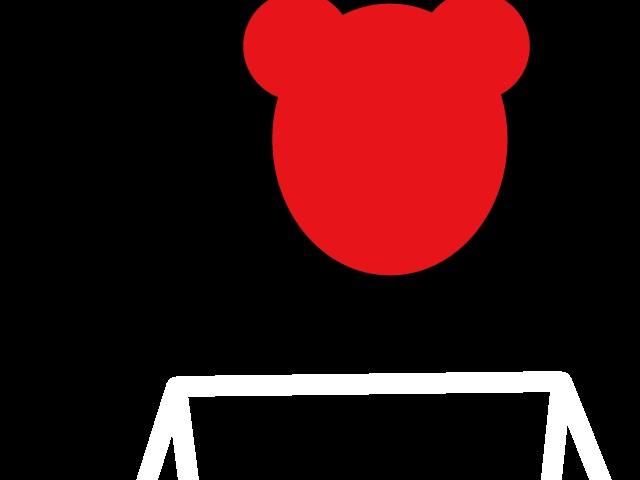
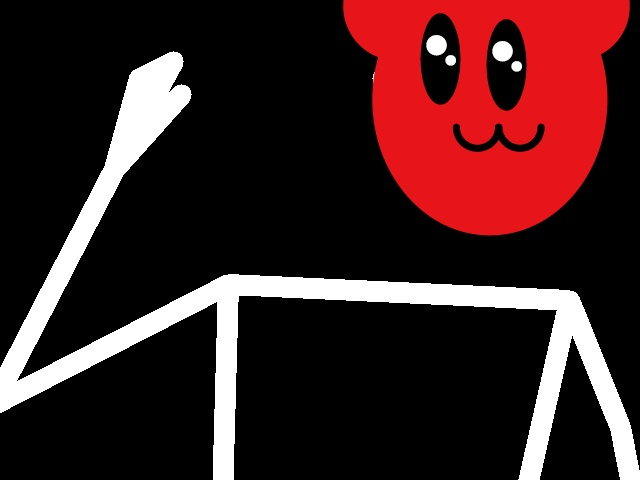
add face elements

diff --git a/tiikawapose.py b/tiikawapose.py
@@ -7,7 +7,10 @@ from PIL import Image
 mp_pose = mp.solutions.pose
 
 # 貼り付ける透過背景付き画像の読み込み
-face_image = cv2.imread('character_face.png', cv2.IMREAD_UNCHANGED)  # 透過背景付き画像を読み込む
+face_image = cv2.imread('character_face.png', cv2.IMREAD_UNCHANGED)
+left_eye_image = cv2.imread('eye_image.png', cv2.IMREAD_UNCHANGED)
+right_eye_image = cv2.imread('eye_image.png', cv2.IMREAD_UNCHANGED)
+mouth_image = cv2.imread('mouth_image.png', cv2.IMREAD_UNCHANGED)
 
 # カメラ映像の取得
 cap = cv2.VideoCapture(0)
@@ -18,20 +21,24 @@ black_img0.save('black_image_with_alpha.png')
 black_img = cv2.imread('black_image_with_alpha.png', cv2.IMREAD_UNCHANGED)
 
 # 画像を重ねる関数
-def overlay_image(bg_img, fg_img, position):
+def overlay_image(bg_img, fg_img, position, angle=0, scale=1.0):
+    
     x, y = position
     h, w = bg_img.shape[:2]
     fg_h, fg_w = fg_img.shape[:2]
+
     # 貼り付ける範囲を背景画像のサイズに収まるように調整
     x1, x2 = max(x - fg_w // 2, 0), min(x + fg_w // 2, w)
     y1, y2 = max(y - fg_h // 2, 0), min(y + fg_h // 2, h)
     fg_x1, fg_y1 = max(0, -x + fg_w // 2), max(0, -y + fg_h // 2)
     fg_x2, fg_y2 = fg_x1 + (x2 - x1), fg_y1 + (y2 - y1)
+
     if x1 < x2 and y1 < y2:
         for c in range(0, 3):  # BGRチャンネル
             alpha = fg_img[fg_y1:fg_y2, fg_x1:fg_x2, 3] / 255.0
             bg_img[y1:y2, x1:x2, c] = (alpha * fg_img[fg_y1:fg_y2, fg_x1:fg_x2, c] +
                                         (1 - alpha) * bg_img[y1:y2, x1:x2, c])
+
     return bg_img
 
 # 背景を透過させる関数
@@ -85,12 +92,34 @@ with mp_pose.Pose(min_detection_confidence=0.5, min_tracking_confidence=0.5) as 
         if results.pose_landmarks:
             draw_thick_skeleton(image, results.pose_landmarks.landmark, mp_pose.POSE_CONNECTIONS, thickness=20, color=(0, 0, 255))
 
-            # 顔の位置を取得し、画像を透過させて貼り付け
-            nose_landmark = results.pose_landmarks.landmark[mp_pose.PoseLandmark.NOSE]
-            nose_x, nose_y = int(nose_landmark.x * frame.shape[1]), int(nose_landmark.y * frame.shape[0])
+            # 目と口のランドマークを取得し、回転とスケーリングを考慮
+            nose = results.pose_landmarks.landmark[mp_pose.PoseLandmark.NOSE]
+            left_eye = results.pose_landmarks.landmark[mp_pose.PoseLandmark.LEFT_EYE]
+            right_eye = results.pose_landmarks.landmark[mp_pose.PoseLandmark.RIGHT_EYE]
+            mouth = results.pose_landmarks.landmark[mp_pose.PoseLandmark.MOUTH_LEFT]
 
-            # `overlay_image`関数を使って顔画像を貼り付け
-            image = overlay_image(image, face_image, (nose_x, nose_y))
+            # 画像上のピクセル距離を計算
+            eye_distance = np.sqrt((left_eye.x - right_eye.x)**2 + (left_eye.y - right_eye.y)**2) * frame.shape[1]
+
+            # 基準とする目の距離(基準とするピクセルを指定)
+            scale = eye_distance / 100
+
+            # 位置を取得
+            nose_x, nose_y = int(nose.x * frame.shape[1]), int(nose.y * frame.shape[0])
+            left_eye_x, left_eye_y = int(left_eye.x * frame.shape[1]), int(left_eye.y * frame.shape[0])
+            right_eye_x, right_eye_y = int(right_eye.x * frame.shape[1]), int(right_eye.y * frame.shape[0])
+            mouth_x, mouth_y = int(mouth.x * frame.shape[1]), int(mouth.y * frame.shape[0])
+
+            # 顔画像の貼り付け
+            image = overlay_image(image, face_image, (nose_x, nose_y), angle=0, scale=scale)
+
+            # 目の位置と角度を計算して貼り付け
+            eye_angle = np.degrees(np.arctan2(right_eye_y - left_eye_y, right_eye_x - left_eye_x))
+            image = overlay_image(image, left_eye_image, (left_eye_x, left_eye_y), angle=eye_angle, scale=scale)
+            image = overlay_image(image, right_eye_image, (right_eye_x, right_eye_y), angle=eye_angle, scale=scale)
+
+            # 口の位置と角度を計算して貼り付け
+            image = overlay_image(image, mouth_image, (mouth_x, mouth_y), angle=eye_angle, scale=scale)
 
         # 画像を表示
         cv2.imshow('Pose Estimation', image)
@@ -101,8 +130,14 @@ with mp_pose.Pose(min_detection_confidence=0.5, min_tracking_confidence=0.5) as 
             skeleton_image = black_img.copy()
             draw_thick_skeleton(skeleton_image, results.pose_landmarks.landmark, mp_pose.POSE_CONNECTIONS, thickness=20, color=(255, 255, 255))
 
-            # 2. 顔画像を骨格の上に重ねる
-            skeleton_image = overlay_image(skeleton_image, face_image, (nose_x, nose_y))
+            # 2. 画像を骨格の上に重ねる
+            skeleton_image = overlay_image(skeleton_image, face_image, (nose_x, nose_y), angle=0, scale=scale)
+            skeleton_image = overlay_image(skeleton_image, left_eye_image, (left_eye_x, left_eye_y), angle=eye_angle, scale=scale)
+            skeleton_image = overlay_image(skeleton_image, right_eye_image, (right_eye_x, right_eye_y), angle=eye_angle, scale=scale)
+            skeleton_image = overlay_image(skeleton_image, mouth_image, (mouth_x, mouth_y), angle=eye_angle, scale=scale)
+
+            # 口の位置と角度を計算して貼り付け
+            image = overlay_image(image, mouth_image, (mouth_x, mouth_y), angle=eye_angle, scale=scale)
 
             # 3. 背景透過処理を行い保存
             cv2.imwrite("captured_image.jpg", skeleton_image)
